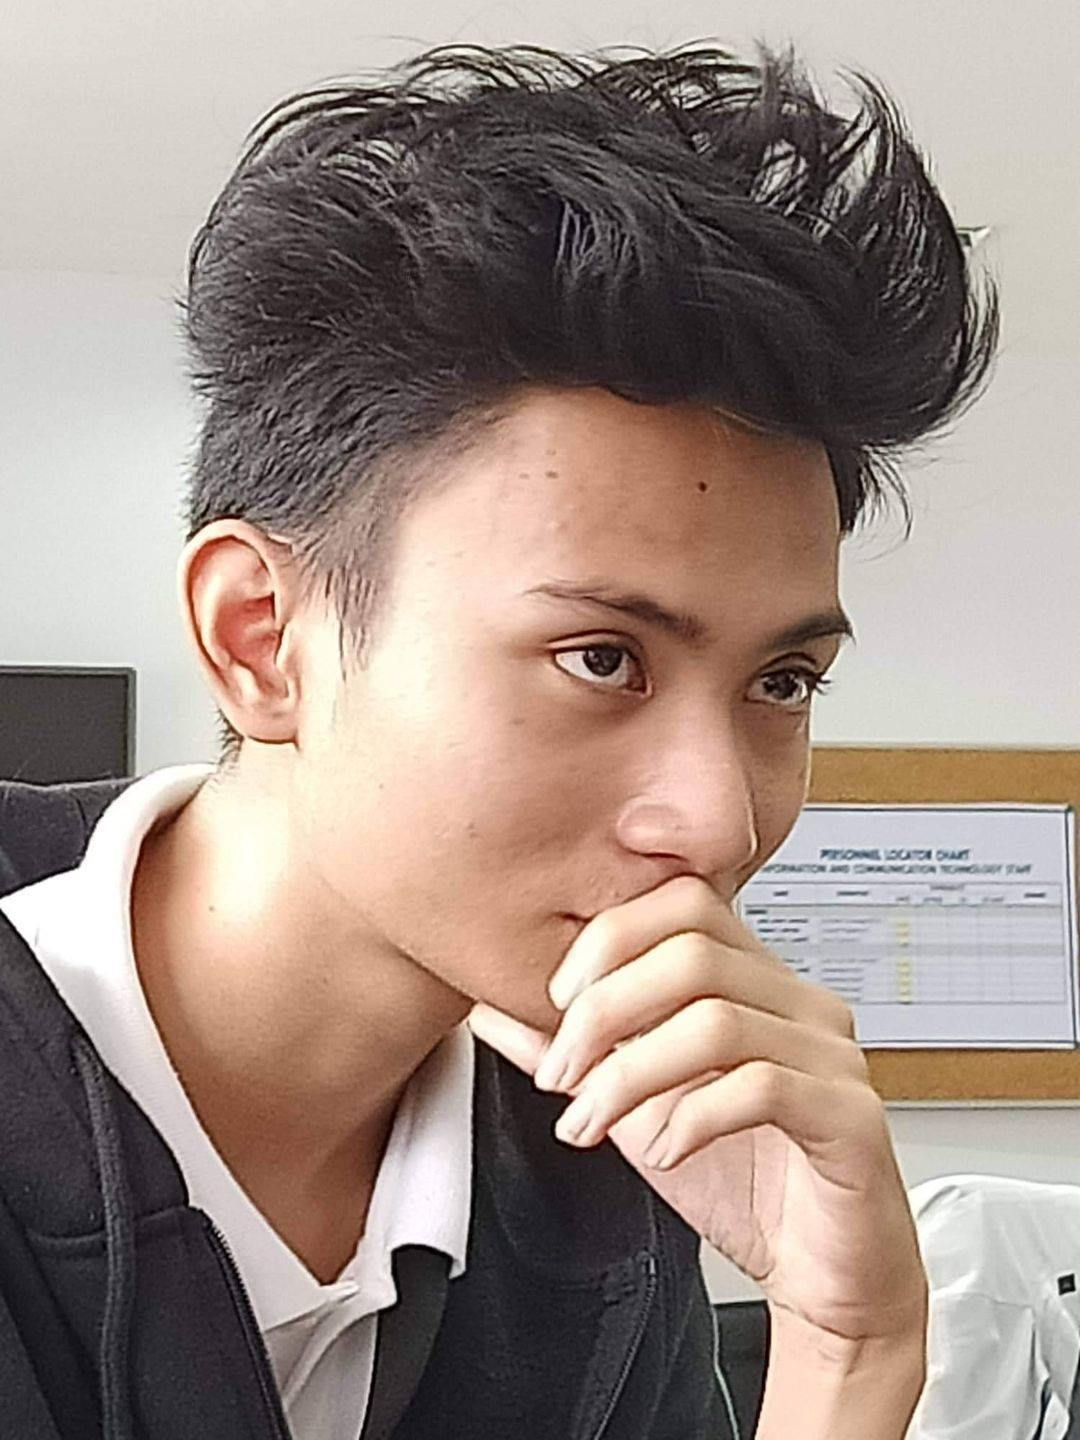
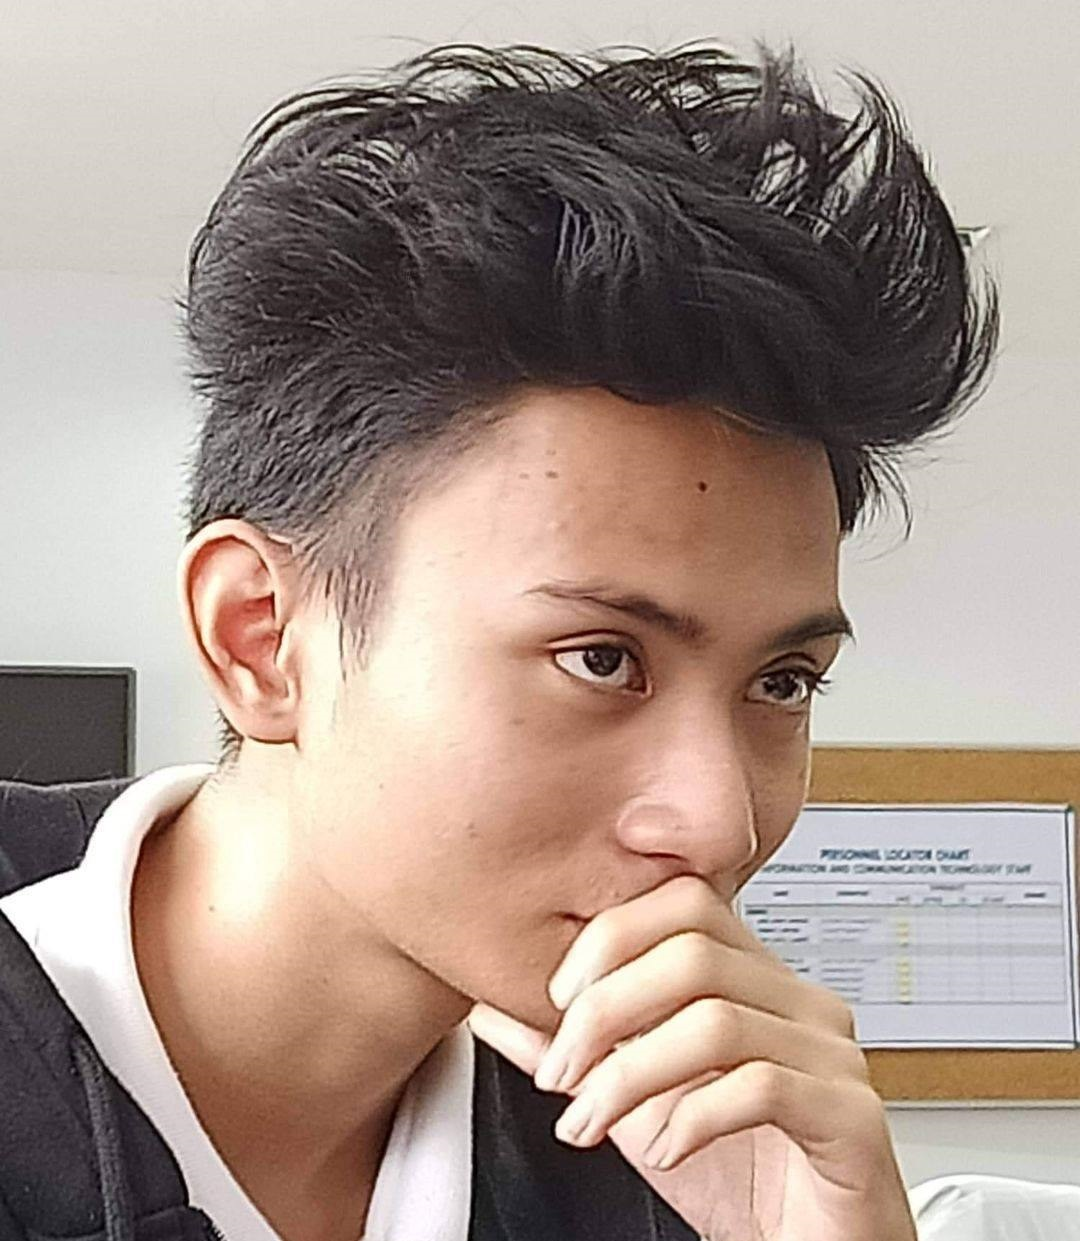
project section

diff --git a/src/app/page.tsx b/src/app/page.tsx
@@ -31,11 +31,11 @@ export default function Home() {
       {/* Header */}
       <header className="bg-gray-900 text-white p-6 text-center relative">
         <Image
-          src="/profile.jpg" // Fixed to start with /
+          src="/profile.jpg"
           alt="Karl Joseph Estipona"
           width={120}
           height={120}
-          className="mx-auto rounded-full border-4 border-white shadow-lg"
+          className="mx-auto rounded-full border-4 border-white shadow-lg object-cover"
         />
         <h1 className="text-4xl font-bold mt-4">Karl Joseph Estipona</h1>
         <p className="mt-2 text-lg">Web Developer & Designer</p>
@@ -67,7 +67,31 @@ export default function Home() {
           <div className="grid grid-cols-1 md:grid-cols-2 gap-6">
             <div className="p-4 bg-gray-50 rounded-lg shadow hover:shadow-lg transition-shadow">
               <h3 className="text-xl font-medium">MediFind</h3>
-              <p className="text-gray-600">A smart app that locates nearby pharmacies and checks medicine prices.</p>
+              <Image
+                src="/logos/logo2.png"
+                alt="MediFind Logo"
+                width={50}
+                height={50}
+                className="inline-block mr-2"
+                title="A smart app that locates nearby pharmacies and checks medicine prices."
+              />
+              <p className="text-gray-600 mt-2">
+                Technologies: JavaScript, SQL, Python, React Native Expo, CSS
+              </p>
+            </div>
+            <div className="p-4 bg-gray-50 rounded-lg shadow hover:shadow-lg transition-shadow">
+              <h3 className="text-xl font-medium">Rental Management System</h3>
+              <Image
+                src="/logos/logo3.png"
+                alt="Rental Management System Logo"
+                width={50}
+                height={50}
+                className="inline-block mr-2"
+                title="A console-based rental management system developed using C# and SQL. Allows users to track available rooms, view renter details, and calculate rental costs. Designed for small-scale boarding house or apartment monitoring."
+              />
+              <p className="text-gray-600 mt-2">
+                Technologies: C#, SQL, Console App
+              </p>
             </div>
           </div>
         </div>
